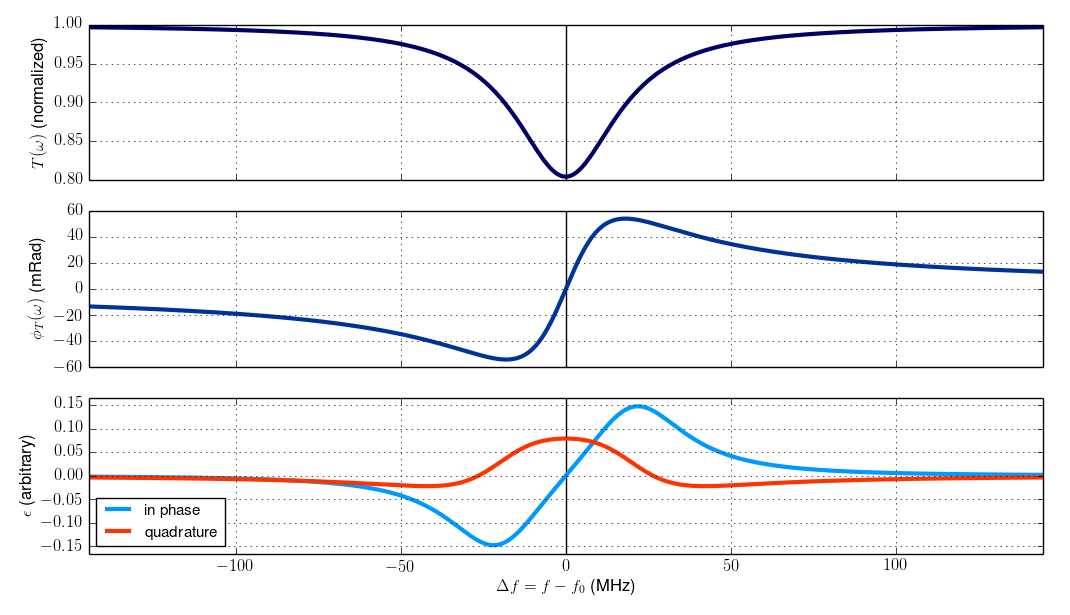
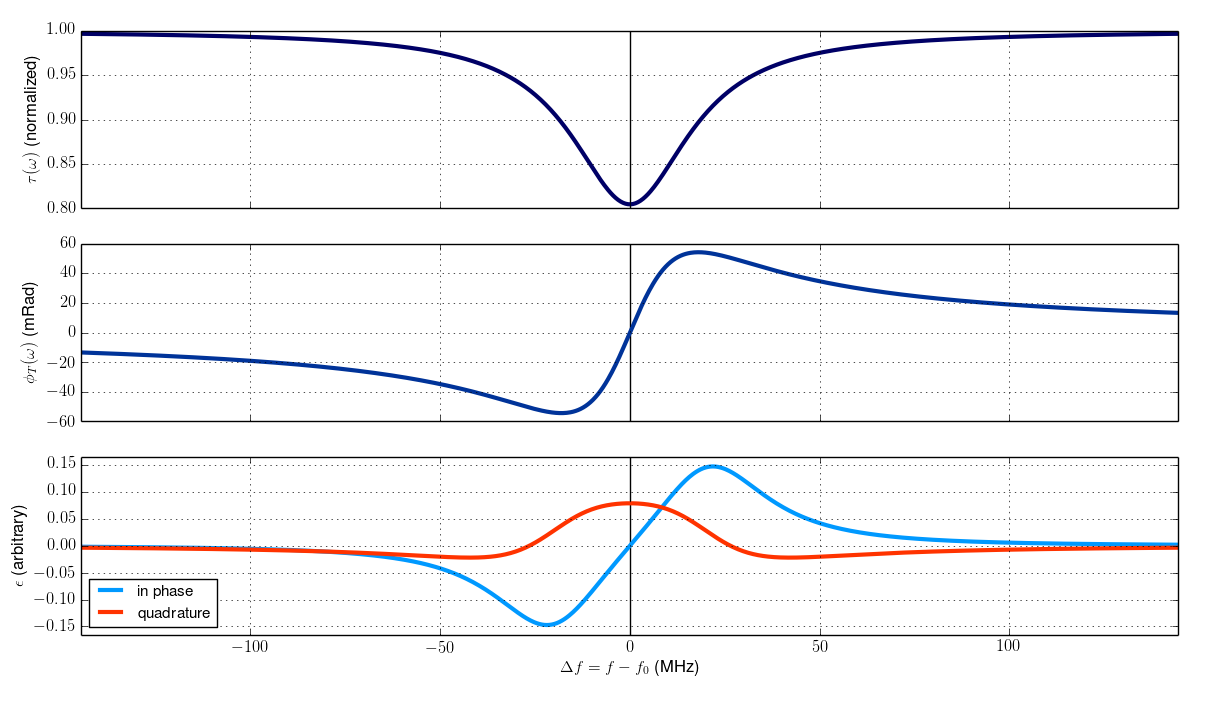
steve final pre-merge commit

diff --git a/final/theory.tex b/final/theory.tex
@@ -5,17 +5,21 @@ To gain an understanding of the motivations behind this project it is worthwhile
 
 Talk about optical phase modulation, PDH. State here again that it is the absorption spectrum resonance features that are to be used for frequency locking.
 
+%%%%%%%%%%%%%%%%%%%%%%%%%%%%%%%%%%%%%%%%%%%%%%%%%%%%%%%%%%%
+%%%%%%%%    Phase Modulation
+%%%%%%%%%%%%%%%%%%%%%%%%%%%%%%%%%%%%%%%%%%%%%%%%%%%%%%%%%%%
+
 \subsection{Optical Phase Modulation}
 
-s it is not possible to process optical signals in the THz range electronically, it is common to modulate these signals to produce a spectrum about the carrier, and then down-mix them to RF signals to extract the relevant information. For optical signals, this is typically done with either an AOM or an EOM. From a mathematical standpoint, the only difference between the two methods is what phase modulation depths and frequencies are physically attainable. \\
+As it is not possible to process optical signals in the THz range electronically, it is common to modulate these signals to produce a spectrum about the carrier, and then down-mix them to RF signals to extract the relevant information. For optical signals, this is typically done with either an AOM or an EOM. From a mathematical standpoint, the only difference between the two methods is what phase modulation depths and frequencies are physically attainable. \\
 
 With AOMs, which use acoustic waves to Doppler shift a beam in the transverse direction of propagation, there is a distinct tradeoff between modulation frequency and the resultant power of the outgoing beam.  The AOMs in current use by the Madison Group only have a useful modulation frequency of approximately 200 kHz \cite{madison14}. \\
 
-The modulation frequency of an EOM is sustainable well into the 100 MHz range, with modulation depth a function of the driving voltage. Furthermore, as phase modulation is parallel with the beam propagation, there is no significant decrease in total beam power as the modulation frequency is increased. High modulation frequencies do, however, result in higher electrical power consumption. Typical modulation depths are in the 100mRad range, with a driving voltage of $\sim 10 V_{pp}$ \cite{thorlabs_eom}. A higher modulation depth demands a higher driving voltage, which also results in higher power consumption, which may or may not be of concern. \\
+The modulation frequency of an EOM is sustainable well into the 100 MHz range, with modulation depth a function of the driving voltage. Furthermore, as phase modulation is parallel with the beam propagation, there is no significant decrease in total beam power as the modulation frequency is increased. High modulation frequencies do, however, result in higher electrical power consumption. Typical modulation depths are in the 100mRad range, with a driving voltage of $\sim 10 V_{pp}$ \cite{thorlabs_eom}. A higher modulation depth demands a higher driving voltage, which also results in higher power dissipation. \\
 
 The effect of the phase modulating medium is to induce a phase oscillation in the incident laser:
 \begin{gather}
-  E = E_0 e^{i\omega t} \xrightarrow{Phase Modulation}
+  E = E_0 e^{i\omega t} \xrightarrow{\mbox{Phase Modulation}}
     E_0 e^{i \omega t + \beta \sin \Omega t}
 \end{gather}
 where $\beta$ is defined as the modulation depth, in radians, and $\Omega$ is the modulation frequency. Using the Jacobi-Anger expansion to isolate the sideband amplitudes,
@@ -43,6 +47,10 @@ An inspection of Bessel function behaviour near the origin shows that this appro
 %   be ignored as they will be filtered during mixing.}
 %   \label{fig:eom_spectrum}
 % \end{figure}
+
+%%%%%%%%%%%%%%%%%%%%%%%%%%%%%%%%%%%%%%%%%%%%%%%%%%%%%%%%%%%
+%%%%%%%%   PDH Method
+%%%%%%%%%%%%%%%%%%%%%%%%%%%%%%%%%%%%%%%%%%%%%%%%%%%%%%%%%%%
 
 \subsection{The Pound-Drever-Hall Method}
 
@@ -76,26 +84,39 @@ by adjusting $\phi$ appropriately, one can extract either $(\Re[X(\omega)]$ or $
 
 \subsubsection{Atomic Gas Reference}
 
-Instead of a reflection from FPC, our beam is changed by it's transmission through an atomic gas. Given a frequency dependent susceptibility $\chi(\omega)$, the complex index of refraction can be defined as (see DANSTECKREF p. ):
+Instead of a reflection from FPC, our beam is changed by it's transmission through an atomic gas. Given a frequency dependent susceptibility $\chi(\omega)$, the complex index of refraction can be defined as \cite{steckoptics}:
 \ggather{
   \tilde{n}(\omega) = \sqrt{1 + \chi(\omega)} \\
   n(\omega) = \Re[\tilde{n}(\omega)] \quad \quad a(\omega) \propto \Im[\tilde{n}(\omega)]
 }
-where $n(\omega)$, $a(\omega)$ are the real index of refraction and absorption, respectively. As a beam passes through this medium, one can derive a complex valued transmission function, $\tilde{T}(\omega)=T(\omega)e^{i\phi_T(\omega)}$,as a function of optical path length, L. After some brief algebraic manipulation:
+where $n(\omega)$, $a(\omega)$ are the real index of refraction and absorption, respectively. Using a standard, weakly-intecting, complex susceptibility model for an atomic gas, these are approximately \cite{steckoptics} (see derivations behind (17.25), (17.26)):
 \ggather{
-  T(\omega) = e^{-a(\omega)L} \\
-  \phi_T(\omega) = (1 - n(\omega)) \frac{\omega}{c} L
+  n(\omega) \approx 1 + \frac{N e^2}{2m\epsilon_0}\frac{(\omega_0 - \omega/2\omega)}{(\omega_0-\omega)^2 +(\Gamma/2)^2} \label{eq:n} \\
+  a(\omega) \approx \frac{N e^2}{m \epsilon_0 c_0 \Gamma} \frac{(\Gamma/2)^2}{(\omega_0-\omega)^2+(\Gamma/2)^2} \label{eq:a}
+}
+where $\omega_0$ is a transition resonance and $\Gamma$ is the FWHM (in rad/s) of the absorption feature. These terms are derived from a complex valued function and are related through the Kramers-Kronig relations.\\
+
+As a beam passes through this medium, one can derive a complex valued transmission function, $T(\omega)=\tau(\omega)e^{i\phi_T(\omega)}$,as a function of optical path length, L. After some brief algebraic manipulation:
+\ggather{
+  \tau(\omega) = e^{-a(\omega)L} \label{eq:tau} \\
+  \phi_T(\omega) = (1 - n(\omega)) \frac{\omega}{c} L \label{eq:phit}
 }
 where $\phi_T(\omega)$ is the \emph{additional} phase accumulation from the presence of the cell. Just like the Fabry-P{\'e}rot cavity, this can be used in a Pound-Drever-Hall system to generate the following electrical signal:
 \ggather{
   V \propto |E_0|^2 \beta(\Re[Y(\omega)]\cos\Omega t + \Im[Y(\omega)]\sin\Omega t) \label{eq:v_pdh_gas} \\
   Y(\omega) = TT_+^\star - T^\star T_-
 }
-and, similarly, through either selective or quadrature demodulation, this signal can be extracted and used for locking.
+and, similarly, through either single channel or quadrature demodulation, this signal can be extracted and used for locking.
+
+%%%%%%%%%%%%%%%%%%%%%%%%%%%%%%%%%%%%%%%%%%%%%%%%%%%%%%%%%%%
+%%%%%%%%   Saturated Absorption
+%%%%%%%%%%%%%%%%%%%%%%%%%%%%%%%%%%%%%%%%%%%%%%%%%%%%%%%%%%%
 
 \subsection{Saturated Absorption Spectroscopy}
 
-\subsection{Modulation Transfer Spectroscopy}
+%%%%%%%%%%%%%%%%%%%%%%%%%%%%%%%%%%%%%%%%%%%%%%%%%%%%%%%%%%%
+%%%%%%%%   Error Signal Gen
+%%%%%%%%%%%%%%%%%%%%%%%%%%%%%%%%%%%%%%%%%%%%%%%%%%%%%%%%%%%
 
 \subsection{Error Signal Generation}
 
@@ -105,14 +126,30 @@ Using the electrical signal in \ref{eq:v_pdh_gas}, single channel demodulation u
 }
 One can select between $\phi = 0, \pi/2$ to extract either the real or imaginary component of $Y(\omega)$. It's worth investigating briefly what the in-phase and quadrature components of $Y(\omega)$ are ( (\ref{eq:pdh_in_phase}) and (\ref{eq:pdh_quadrature}), respectively). Defining $R = r + i\mathbb{R}$:
 \ggather{
-  \nonumber Y(\omega) = (r + i\mathbb{R})(r_+ - i\mathbb{R}_+) - (r - i\mathbb{R}_+)(r_- + i\mathbb{R}_-) \\
-  \Re[Y(\omega)] = r(r_+ - r_-) + \mathbb{R}(\mathbb{R}_+ - \mathbb{R}_-) \label{eq:pdh_in_phase}\\
-  \Im[Y(\omega)] = \mathbb{R}(r_- - r_+) + r(\mathbb{R}_+ - \mathbb{R}_-)\label{eq:pdh_quadrature}
+  \nonumber Y(\omega) = (T + i\mathbb{T})(T_+ - i\mathbb{T}_+) - (T - i\mathbb{T}_+)(T_- + i\mathbb{T}_-) \\
+  \Re[Y(\omega)] = T(T_+ - T_-) + \mathbb{T}(\mathbb{T}_+ - \mathbb{T}_-) \label{eq:pdh_in_phase}\\
+  \Im[Y(\omega)] = \mathbb{T}(T_- - T_+) + T(\mathbb{T}_+ - \mathbb{T}_-)\label{eq:pdh_quadrature}
 }
-Note that, both of these signals have zero crossings at the atomic resonances and so their location in frequency space is conserved, which is of obvious use. Given a simple absorption resonance, these signals are shown in Figure XXXXX. \\
+Note that, both of these signals have zero crossings at the atomic resonances and so their location in frequency space is conserved, which is of obvious use. These signals are shown in \textbf{Figure \ref{fig:pdh_error}} computed for an absorption spectrum about a sample resonance. \\
 
 Alternatively, through quadrature mixing, one can extract both values in separate channels:
 \ggather{
   \epsilon_1 = \Re[Y(\omega)]\cos\phi \quad \quad \epsilon_2 = \Im[Y(\omega)]\cos\phi
 }
-where $\phi=0$ would presumably stay constant to maximize the signal. These separate channels could be used to create a variety of error signals. However, given the response shown in Figure XXXX it is not clear that this is necessary. Given proper conditioning, the in-phase feature defined by (\ref{eq:pdh_in_phase}) is likely sufficient.
+where $\phi=0$ would presumably stay constant to maximize the signals. These separate channels could be used to create a variety of error signals. However, given the response shown in \textbf{Figure \ref{fig:pdh_error}} it is not clear that this is necessary, or even drsirable. For null locking, the in-phase feature defined by (\ref{eq:pdh_in_phase}) is likely sufficient.
+
+\begin{figure}
+  \includegraphics[width=0.94\textwidth]{figures/{pdh_error}.png}
+  \caption{In-phase and quadrature PDH error signals calculated for a simple model of the Rb85 $\left|F=3\right\rangle \rightarrow \left|F'=3\right\rangle$ resonance using (\ref{eq:n}) (\ref{eq:a}) (\ref{eq:tau}) (\ref{eq:phit}) with $w_0\approx$ 383 THz, $\Gamma \approx$ 5.75 MHz. Note that the in-phase signal has a clear zero crossing at the resonance center, making it ideal for null locking.}
+  \label{fig:pdh_error}
+\end{figure}
+
+%%%%%%%%%%%%%%%%%%%%%%%%%%%%%%%%%%%%%%%%%%%%%%%%%%%%%%%%%%%
+%%%%%%%%   Mod Transfer Spectroscopy
+%%%%%%%%%%%%%%%%%%%%%%%%%%%%%%%%%%%%%%%%%%%%%%%%%%%%%%%%%%%
+
+\subsection{Modulation Transfer Spectroscopy}
+
+During development, the saturated absorption signal was difficult to work with, and, given the nature of its probe/pump ratio did not yield signals with very high SNR (see figure). \\
+
+Unlike the saturated absorption signal above, the modulation transfer signal gives slightly different response. At a variety of modulation frequencies in the range of 10-20MHz, both the in-phase and quadrature \cite{0957-0233-19-10-105601}.

diff --git a/final/deliverables.tex b/final/deliverables.tex
@@ -7,15 +7,15 @@ The sponsor's requirement of an optical pipeline including an EOM unit, Rubidium
 
 \subsection{Fast Analog Laser Control Feedback Circuit}
 
-Constructed single channel demodulation.
+Constructed single channel demodulation, as warranted. Parts list is in appendix.
 
 \subsection{New vs. Old System Characterization}
 
-Originally, the sponsor had suggested closed-loop testing of this locking scheme. With the use of a Fabry-Pi{\'e}rot interferometer, a direct comparison of laser linewidths using the old and new locking systems could be made. Unfortunately, due to timing, it was not possible to access, and make large changes to, the master laser table when this new system neared completion as the Madison Group researchers began experimental procedures which could not be easily interrupted. Additionally, it would have been either time-consuming or suboptimal to route either the optical signal or electrical signal across the room from our setup to the laser servo racks. The sponsor, Dr. Kirk Madison, directed us to focus on characterizing the error signal performance using the following metrics:
+Originally, the sponsor had suggested closed-loop testing of this locking scheme. With the use of a Fabry-Pi{\'e}rot interferometer, a direct comparison of laser linewidths using the old and new locking systems could be made. Unfortunately, due to timing, it was not possible to access, and make large changes to, the master laser table when this new system neared completion as the Madison Group researchers began experimental procedures which could not be easily interrupted. Additionally, it would have been either time-consuming or suboptimal to route either the optical signal or electrical signal across the room from our setup to the laser servo racks. The sponsor, Dr. Kirk Madison, directed us to acquire broad error signal metrics including:
 \begin{itemize}
     \item Error signals as a function of pump/probe power
     \item Error signals as a function of temperature
     \item Slope (mV/MHz) around locking points
     \item Noise (mVpp) around locking points
 \end{itemize}
-Given this data, it is intended that Madison Group researchers use this data to rebuild this setup on the master laser optical table at their earliest convenience.
+Given this data, it is intended that Madison Group researchers use this data to rebuild this setup on the master laser optical table at their earliest convenience. This data is shown in \textbf{Appendices \ref{app:85pwr} - \ref{app:87temp}}. The methods used to generate the data are discussed in \textbf{Section \ref{sec:validation}}.

diff --git a/final/appendix.tex b/final/appendix.tex
@@ -4,6 +4,7 @@
 \renewcommand{\thesubsection}{\Alph{subsection}}
 
 \subsection{$^{85}$Rb Error Signals - Variable Power}
+\label{app:85pwr}
 %
 %   0.5mW Probe
 %
@@ -81,6 +82,8 @@
 \newpage
 
 \subsection{$^{85}$Rb Error Signals - Variable Temperature}
+\label{app:85temp}
+
 \begin{figure}[H]
   \begin{tabular}{cc}
     \includegraphics[width=0.47\textwidth]{figures/{85_40C}.png} &
@@ -95,6 +98,7 @@
 \newpage
 
 \subsection{$^{87}$Rb Error Signals - Variable Power}
+\label{app:87pwr}
 %
 %   0.5mW Probe
 %
@@ -172,6 +176,8 @@
 \newpage
 
 \subsection{$^{87}$Rb Error Signals - Variable Temperature}
+\label{app:87temp}
+
 \begin{figure}[H]
   \begin{tabular}{cc}
     \includegraphics[width=0.47\textwidth]{figures/{87_40C}.png} &

diff --git a/data_analysis/pdh_error.py b/data_analysis/pdh_error.py
@@ -145,7 +145,7 @@ ax1.set_xlim([-1*span, span])
 ax2.set_xlim([-1*span, span])
 ax3.set_xlim([-1*span, span])
 
-ax1.set_ylabel(r"$T(\omega)$ (normalized)")
+ax1.set_ylabel(r"$\tau(\omega)$ (normalized)")
 ax2.set_ylabel(r"$\phi_T(\omega)$ (mRad)")
 ax3.set_ylabel(r"$\epsilon$ (arbitrary)")
 ax3.set_xlabel(r"$\Delta f = f - f_0$ (MHz)")

diff --git a/final/validation.tex b/final/validation.tex
@@ -1,5 +1,6 @@
 \newpage
 \section{Validation}
+\label{sec:validation}
 
 \subsection{Data Sets}
 
